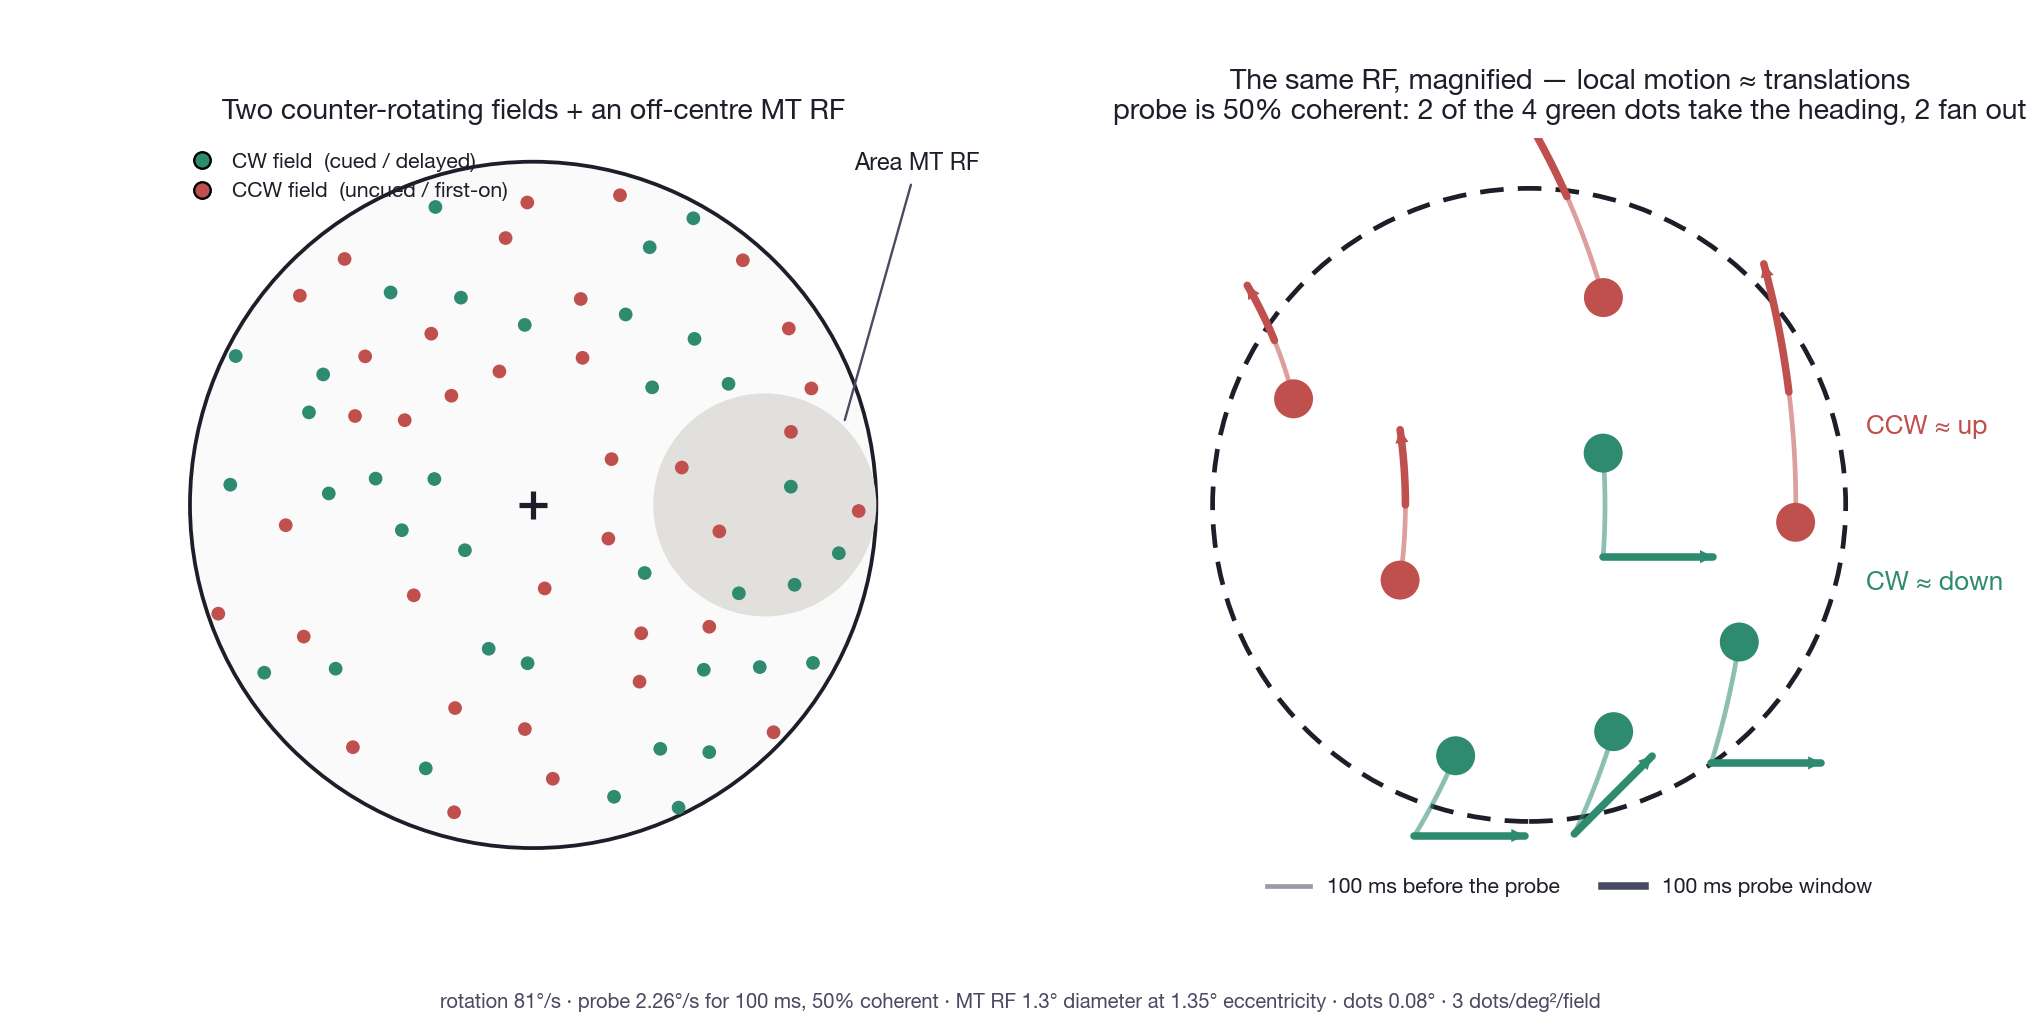
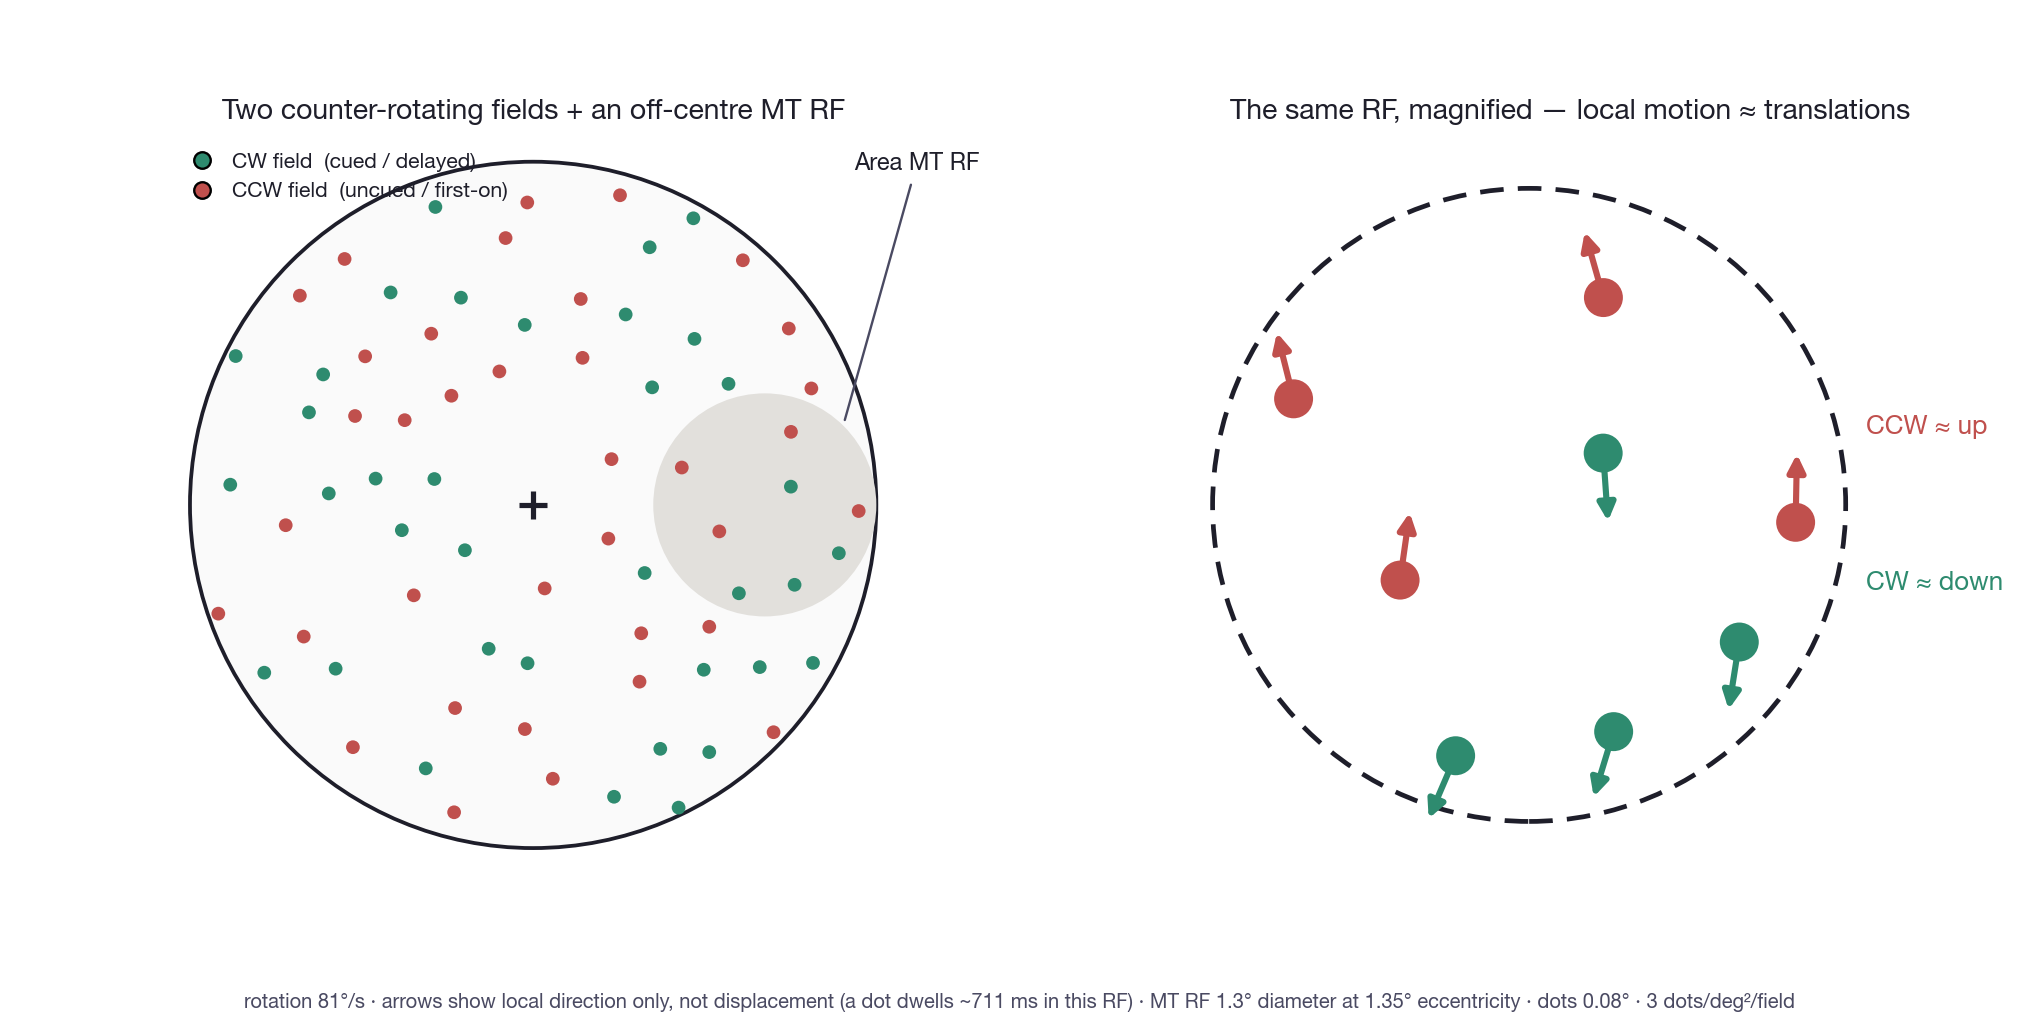
Each figure on its own timescale: MT shows direction, V1 shows the probe
GS observed that the MT panel's red/green trajectories were not quite balanced,
and that this may not matter because the competition model reads the input over
the whole trial rather than the moments around the translation. Quantified, that
is right, and it says the two blow-ups want different treatments:

                     subtends    dot dwell    200 ms window is
    MT RF   ecc 1.35   57.6 deg     711 ms    28% of a dwell, 13% of the trial
    V1 left ecc 1.08   25.6 deg     316 ms    63% of a dwell
    V1 right ecc 1.62  17.1 deg     211 ms    95% of a dwell

So 200 ms is essentially the whole time a dot spends in a V1 RF — exactly what
the containment claim needs — but a small slice of an MT dwell. Over a 1590 ms
trial a dot sweeps 129 deg of arc, so the MT RF's population turns over ~2.2x.
The eight dots in that panel were one of roughly two successive populations, not
"the input". Same mechanism as register F22: the 711 ms dwell against the
experiment's 750 ms cue lead means the MT RF is fully repopulated between cue
onset and probe.

MT BLOW-UP is now a DIRECTION FIELD — a short fixed-length arrow per dot, no time
extent, no probe. Each arrow is the TRUE local tangent rather than a drawn
vertical, so the arrows come out near-vertical but visibly fanned: measured
departure up to 23 deg, against the arcsin(R/ecc) = 29 deg bound that sets
MT_R_DEG. The fan now demonstrates the "≈" in CCW ≈ up / CW ≈ down instead of the
label merely asserting it.
[…]

diff --git a/Agents/Modeling/sb2010/mt_rf_figure.py b/Agents/Modeling/sb2010/mt_rf_figure.py
@@ -29,13 +29,12 @@ import numpy as np
 import matplotlib
 matplotlib.use("Agg")
 import matplotlib.pyplot as plt
-from matplotlib.patches import Circle
+from matplotlib.patches import Circle, FancyArrowPatch
 from matplotlib.lines import Line2D
 
 import ps_stimulus_common as S
 from ps_stimulus_common import (INK, INK2, GREEN, RED, SURFACE,
-                                MT_C, MT_R_DEG, DOT_DIAM_DEG,
-                                PRE_MS, TRANS_MS, OMEGA_DEG_S, PROBE_DEG_S)
+                                MT_C, MT_R_DEG, DOT_DIAM_DEG, OMEGA_DEG_S)
 
 
 def fig_mt_rf(out="mt_rf_figure.png"):
@@ -55,37 +54,37 @@ def fig_mt_rf(out="mt_rf_figure.png"):
     axR.add_patch(Circle(MT_C, MT_R_DEG, facecolor=SURFACE, edgecolor=INK,
                          lw=2.0, ls=(0, (5, 3)), zorder=1))
 
-    # Every dot carries its OWN probe direction. The translating field is 50%
-    # coherent, exactly as the experiment: half its dots take the heading, half
-    # fan across eight directions at the same speed. Drawing them all moving
-    # together would overstate the probe as a rigid shift of the surface.
+    # DIRECTION ONLY — no time extent. A dot dwells ~711 ms in this RF and the
+    # trial runs ~1590 ms, so the population turns over ~2.2x: any short window
+    # drawn here would be one arbitrary slice of what MT actually integrates.
+    # The competition model reads the direction of the input over the whole trial,
+    # so that is what this panel shows. The probe belongs to the V1 figure, where
+    # the window matches the dwell (211-316 ms).
+    #
+    # Each arrow is the TRUE local tangent at that dot, not a drawn vertical: the
+    # arrows come out near-vertical but visibly fanned, and that fan IS the
+    # approximation error that sets the RF size (see MT_R_DEG in the common module).
+    ARROW_DEG = 0.15                       # ~2 dot-widths; an indicator, not a path
     inside = S.dots_in(MT_C, MT_R_DEG)
+    devs = []
     for p, colour, sense, translates, pdir, coh in inside:
-        pre, during = S.dot_trajectory(p, sense, translates, pdir)
-        S.draw_trajectory(axR, pre, during, colour,
-                          lw_pre=2.0, lw_during=3.2, head=14, z=4)
+        d = S.local_direction(p, sense)
+        axR.add_patch(FancyArrowPatch(p, np.asarray(p) + d * ARROW_DEG,
+                                      arrowstyle="-|>", mutation_scale=15,
+                                      color=colour, lw=2.6, zorder=4))
         axR.add_patch(Circle(p, DOT_DIAM_DEG / 2, facecolor=colour,
                              edgecolor="none", zorder=6))
-    n_coh = sum(1 for d in inside if d[3] and d[5])
-    n_noi = sum(1 for d in inside if d[3] and not d[5])
+        devs.append(abs(np.degrees(np.arctan2(d[0], abs(d[1])))))   # from vertical
 
     axR.text(MT_C[0] + MT_R_DEG + pad * 0.4, MT_C[1] - 0.16, "CW ≈ down",
              color=GREEN, fontsize=11, fontweight="bold", ha="left", va="center")
     axR.text(MT_C[0] + MT_R_DEG + pad * 0.4, MT_C[1] + 0.16, "CCW ≈ up",
              color=RED, fontsize=11, fontweight="bold", ha="left", va="center")
-    axR.set_title(f"The same RF, magnified — local motion ≈ translations\n"
-                  f"probe is {S.COHERENCE:.0%} coherent: {n_coh} of the "
-                  f"{n_coh + n_noi} green dots take the heading, {n_noi} fan out",
+    axR.set_title("The same RF, magnified — local motion ≈ translations",
                   fontsize=12, color=INK, pad=8)
-    axR.legend(handles=[
-        Line2D([0], [0], color=INK2, lw=2.0, alpha=0.55,
-               label=f"{PRE_MS:g} ms before the probe"),
-        Line2D([0], [0], color=INK2, lw=3.2, label=f"{TRANS_MS:g} ms probe window")],
-        loc="lower center", ncol=2, frameon=False, fontsize=9,
-        bbox_to_anchor=(0.5, -0.06))
-
     fig.text(0.5, 0.008,
-             f"rotation {OMEGA_DEG_S:g}°/s · probe {PROBE_DEG_S:g}°/s for {TRANS_MS:g} ms, {S.COHERENCE:.0%} coherent · "
+             f"rotation {OMEGA_DEG_S:g}°/s · arrows show local direction only, not "
+             f"displacement (a dot dwells ~{S.dwell_ms(MT_C, MT_R_DEG):.0f} ms in this RF) · "
              f"MT RF {2*MT_R_DEG:.1f}° diameter at {MT_C[0]:g}° eccentricity · "
              f"dots {DOT_DIAM_DEG:g}° · {S.DENSITY:g} dots/deg²/field",
              ha="center", va="bottom", fontsize=8.5, color=INK2)
@@ -97,7 +96,8 @@ def fig_mt_rf(out="mt_rf_figure.png"):
                         wspace=0.10)
     fig.savefig(out, dpi=170, facecolor="white")
     plt.close(fig)
-    print(f"wrote {out}   ({len(inside)} dots in the magnified RF)")
+    print(f"wrote {out}   ({len(inside)} dots in the magnified RF; local "
+          f"direction departs from vertical by up to {max(devs):.0f}°)")
 
 
 if __name__ == "__main__":

diff --git a/Agents/Modeling/sb2010/ps_stimulus_common.py b/Agents/Modeling/sb2010/ps_stimulus_common.py
@@ -29,7 +29,14 @@ THE LAYOUT IS CONSTRUCTED, NOT SEARCHED
     32 pepper dots   over the rest of the display
 
 1 + 3 + 32 = 36 = DENSITY x annulus area, so the construction preserves density
-exactly rather than trading it for the arrangement. Every non-selected dot is
+exactly rather than trading it for the arrangement.
+
+The equal red/green count in the MT RF is FORCED, deliberately. A single-trial
+snapshot would typically differ by 2.25 dots (28%), and averaging over the trial's
+~2.2 population turnovers only brings that to 1.51 (19%) — a sqrt(2.2) improvement,
+not a wash-out. The real symmetry comes from the model's 24-layout average. So the
+balanced case IS the effective input MT integrates, and the snapshot imbalance is
+sampling noise the model averages away. Do not "correct" this to a random draw. Every non-selected dot is
 verified to clear both V1 RFs at all sampled frames, so each V1 RF really does
 hold one dot and only one for the whole window.
 
@@ -170,6 +177,32 @@ def dot_trajectory(p0, sense, translates, probe_dir=None):
     else:
         during = _rotation_path(pre[-1], sense, TRANS_MS)
     return pre, during
+
+
+def local_direction(p, sense):
+    """Unit tangential direction of rigid rotation at position `p`.
+
+    Perpendicular to the radius from fixation, sign set by CW/CCW. Near-vertical
+    for a point off to one side of fixation, which is the approximation the whole
+    competition model rests on — but only NEAR-vertical, departing by up to
+    arcsin(R/ecc) across an RF, which is what sets MT_R_DEG.
+    """
+    p = np.asarray(p, float)
+    t = np.array([-p[1], p[0]]) / np.hypot(*p)      # CCW tangent
+    return t if sense == "CCW" else -t
+
+
+def dwell_ms(centre, radius):
+    """How long a dot spends inside a circular RF, under rigid rotation.
+
+    The RF subtends 2*arcsin(radius/ecc) of polar angle from fixation, and dots
+    sweep that at OMEGA_DEG_S. This is the timescale that decides what a panel may
+    honestly show: a window much shorter than the dwell is one arbitrary slice of
+    the RF's input, since the population turns over.
+    """
+    ecc = np.hypot(*centre)
+    span = 2 * np.degrees(np.arcsin(min(radius / ecc, 1.0)))
+    return span / OMEGA_DEG_S * 1000.0
 
 
 def _positions_at(p0, sense, translates, t_s):

diff --git a/Agents/Modeling/sb2010/ps_two_rf_figure.py b/Agents/Modeling/sb2010/ps_two_rf_figure.py
@@ -55,9 +55,12 @@ def _blowup(ax, which, panel_lab, sub):
             va="bottom", fontsize=9.5, color=colour, fontweight="bold")
 
     exc = S.excursion(np.vstack([pre, during]), rf_c)
+    note2 = (f"\nprobe is {S.COHERENCE:.0%} coherent — this dot is one of the coherent\n"
+             f"half; the rest fan over 8 directions at the same speed"
+             if translates else "")
     ax.text(rf_c[0], rf_c[1] - RF_R_DEG - pad * 0.45,
             f"dot edge stays within {exc:.3f}° of centre\nRF radius {RF_R_DEG:.2f}° "
-            f"({RF_R_DEG/exc:.2f}× margin)",
+            f"({RF_R_DEG/exc:.2f}× margin){note2}",
             ha="center", va="top", fontsize=8.5, color=INK2)
     ax.set_title(f"{panel_lab}\n{sub}", fontsize=10.5, color=INK, pad=6)
 
